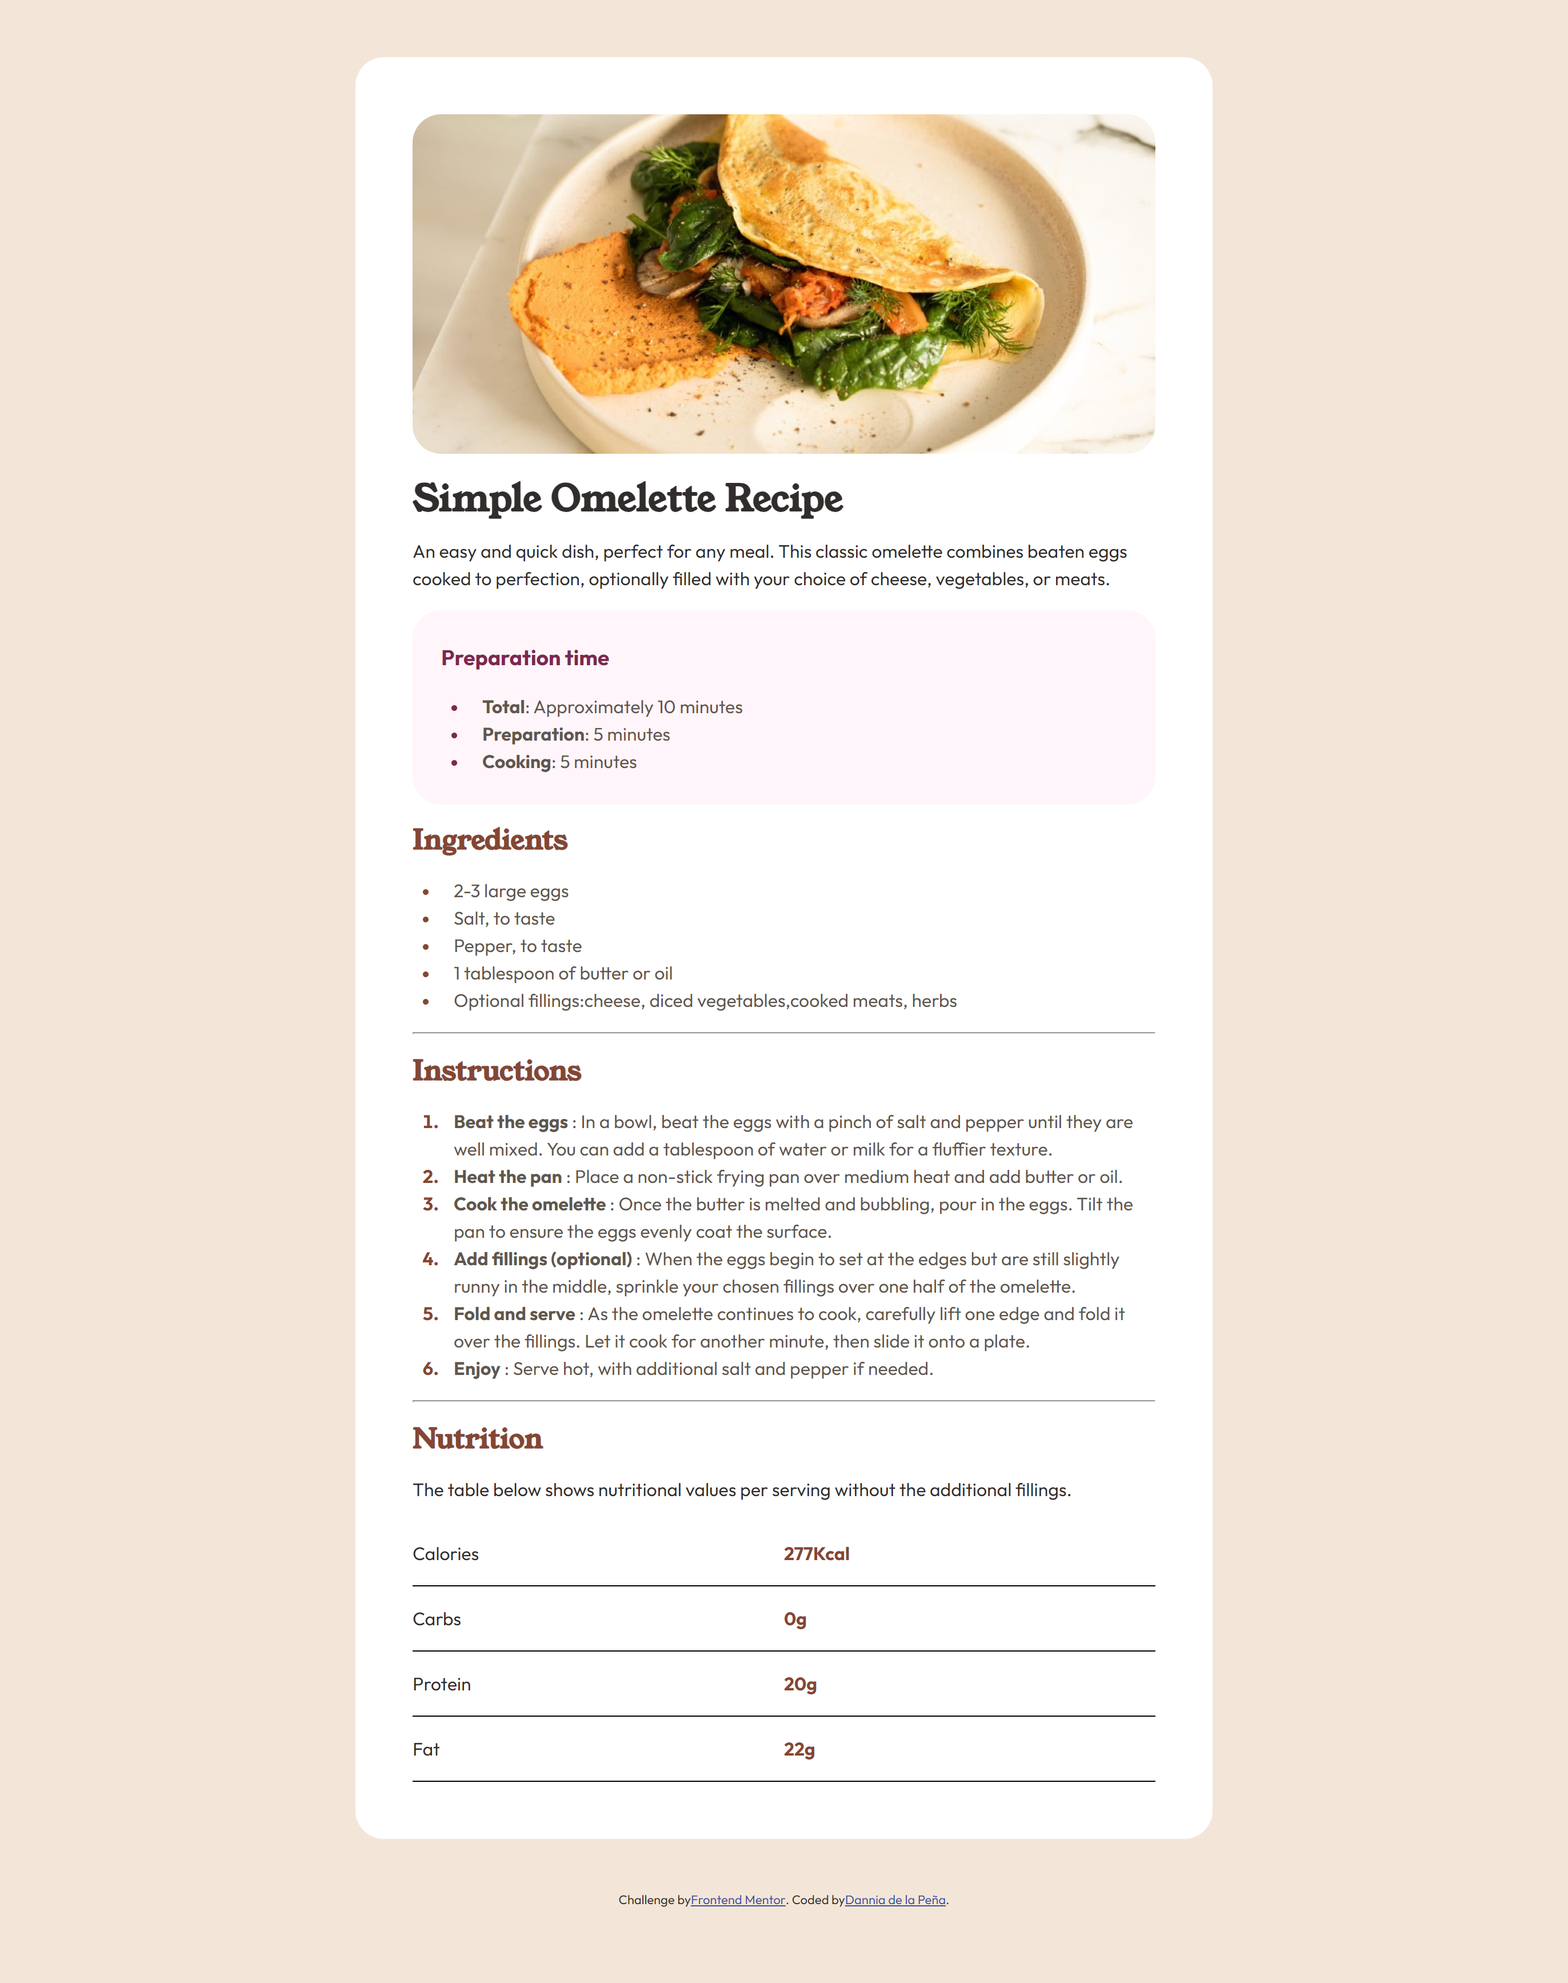
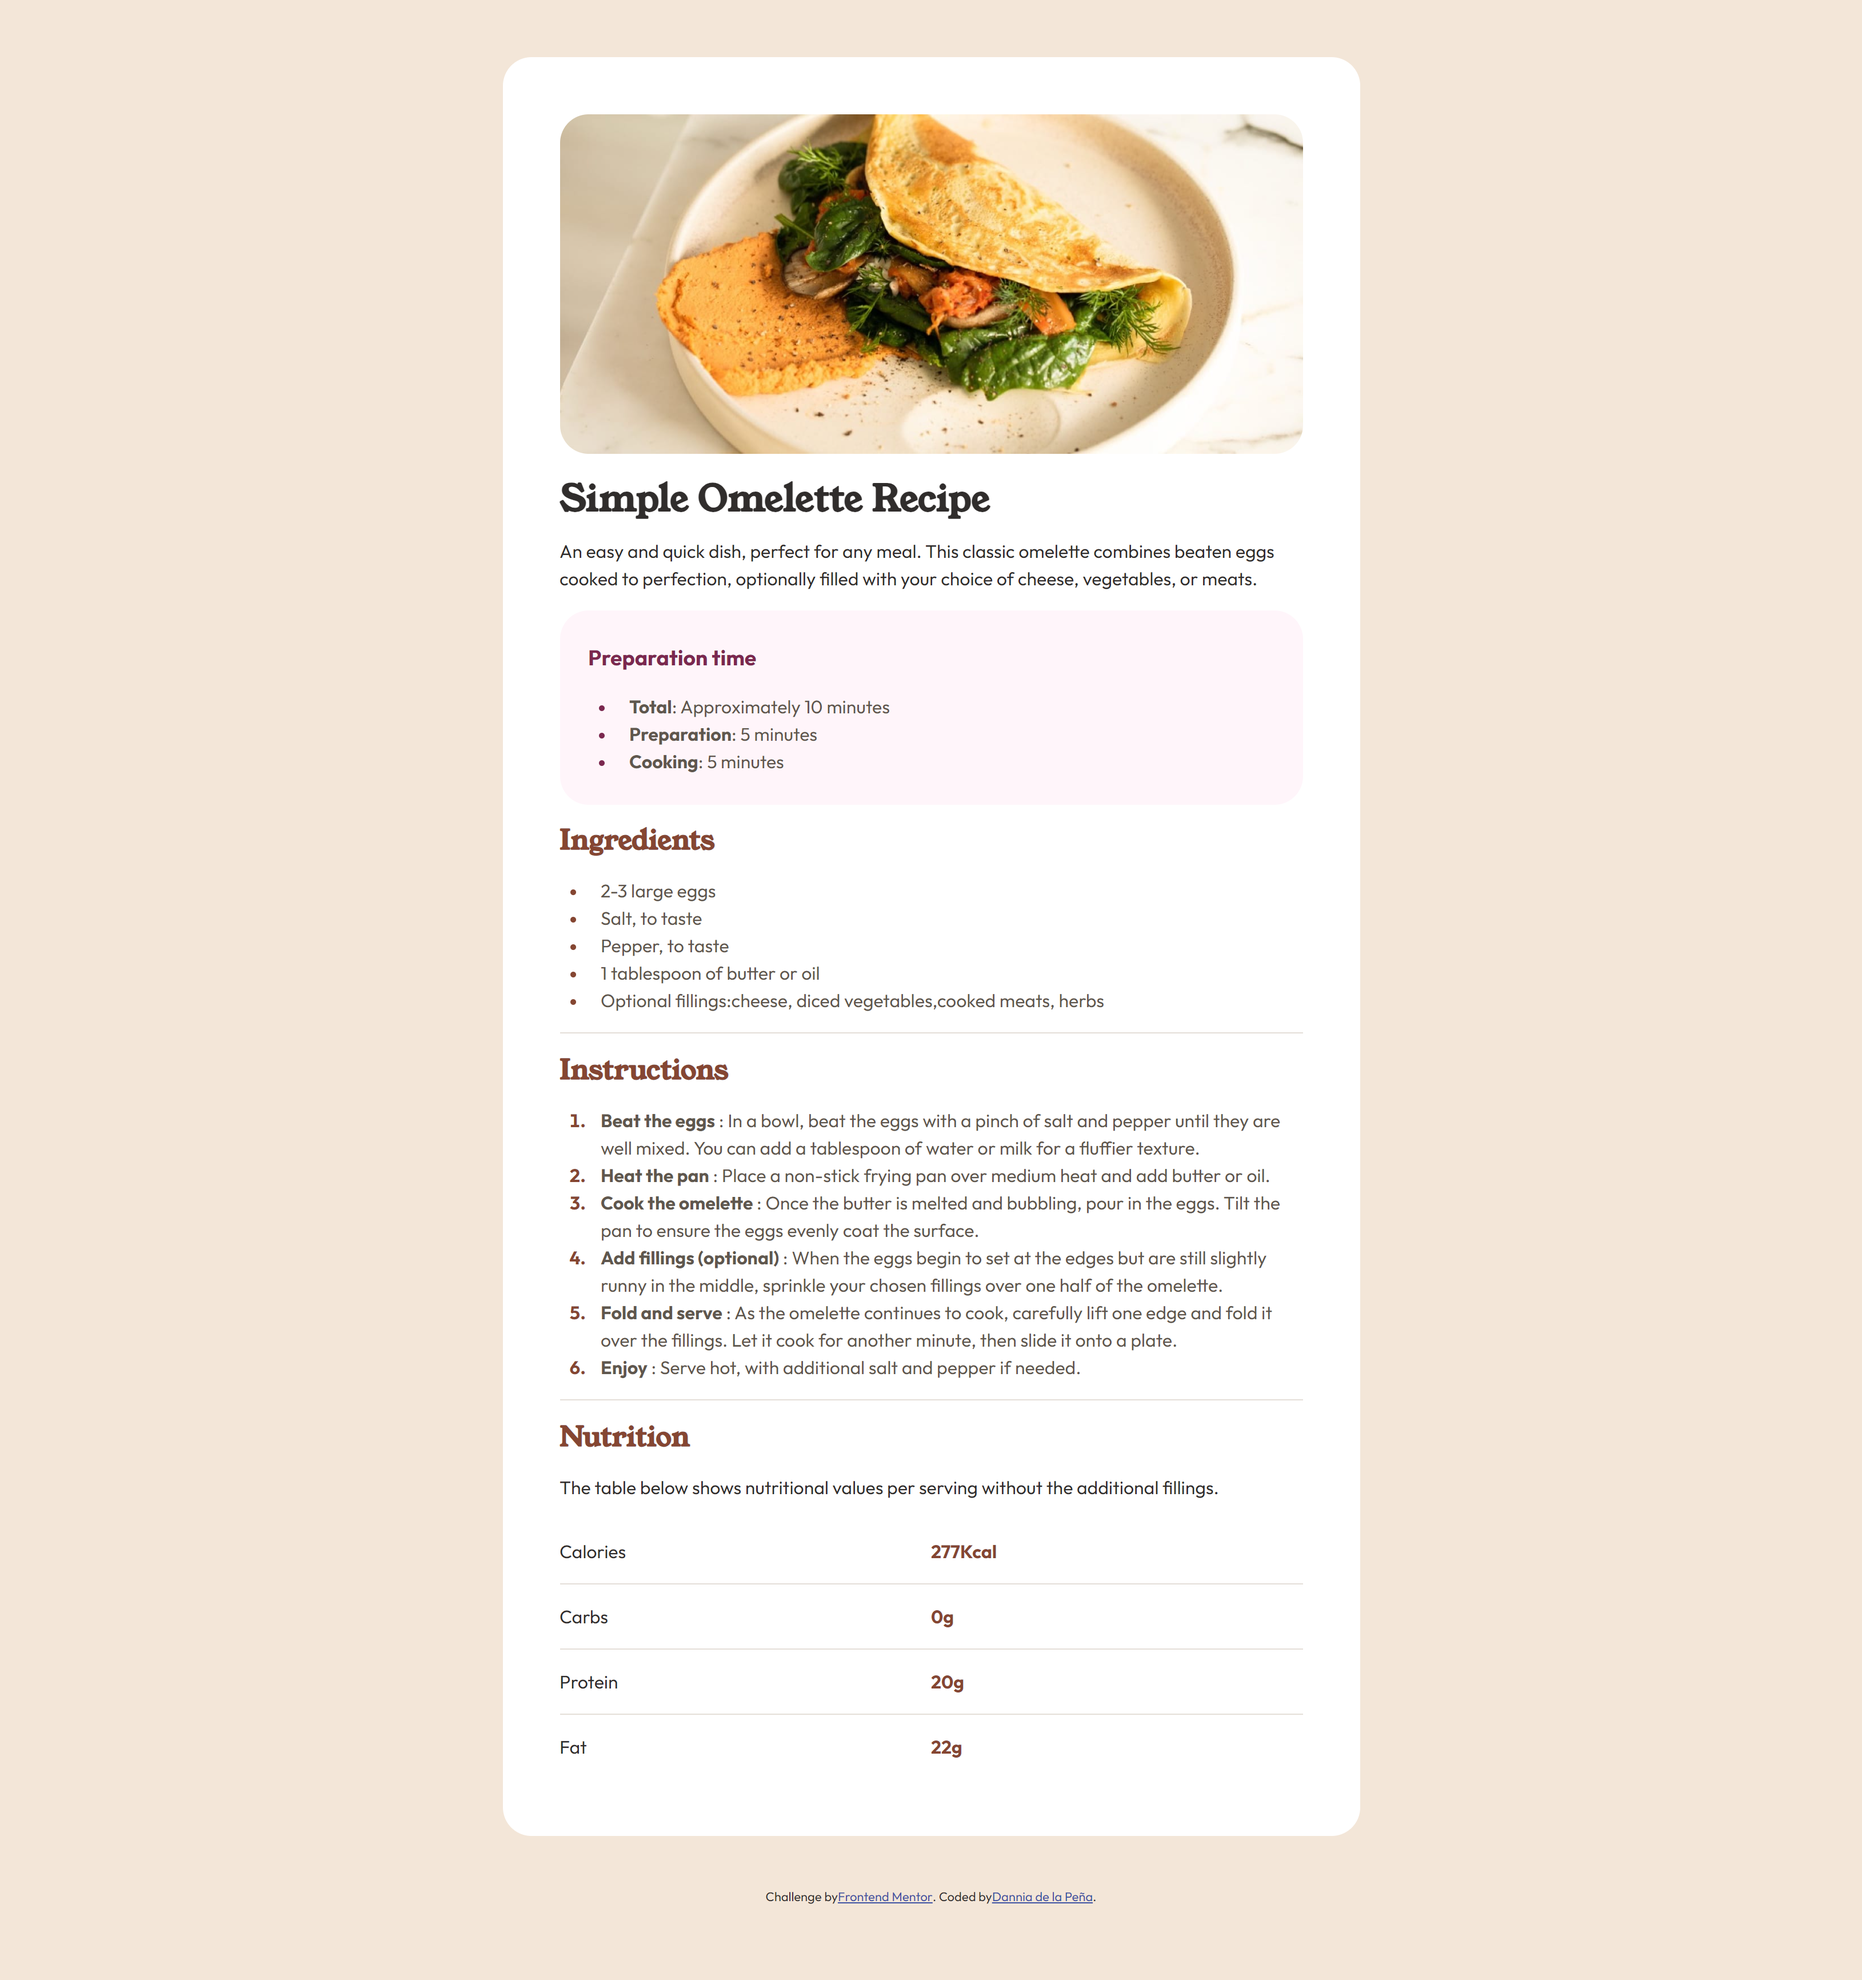
Replace img

diff --git a/index.html b/index.html
@@ -64,7 +64,7 @@
         </ul>
       </div>
 
-      <hr />
+
 
       <div class="instructions-section">
         <h2>Instructions</h2>
@@ -115,7 +115,6 @@
         </ol>
       </div>
 
-      <hr />
 
       <section class="nutrition-section">
         <h2>Nutrition</h2>
@@ -138,7 +137,7 @@
             <p> <span>20g</span> </p>
           </div>
 
-          <div class="nutritional-info">
+          <div class="nutritional-info" id="borderNone">
             <p>Fat</p>
             <p><span>22g</span></p>
           </div>

diff --git a/css/style.css b/css/style.css
@@ -69,7 +69,7 @@ span {
   color: hsl(30, 10%, 34%);
 }
 hr {
-  color: hsl(30, 18%, 87%);
+  color: hsl(60, 1%, 81%);
 }
 
 li {
@@ -88,8 +88,17 @@ li {
     display: flex;
     justify-content: space-around;
     align-items: center;
-    border-bottom: 1px solid black;
+    border-bottom: 1px solid hsl(30, 18%, 87%);
     width: 100%;
+}
+
+.ingredients-section, .instructions-section {
+    border-bottom: 1px solid hsl(30, 18%, 87%);
+
+  }
+
+#borderNone{
+    border: none;
 }
 
 .nutritional-info p{
